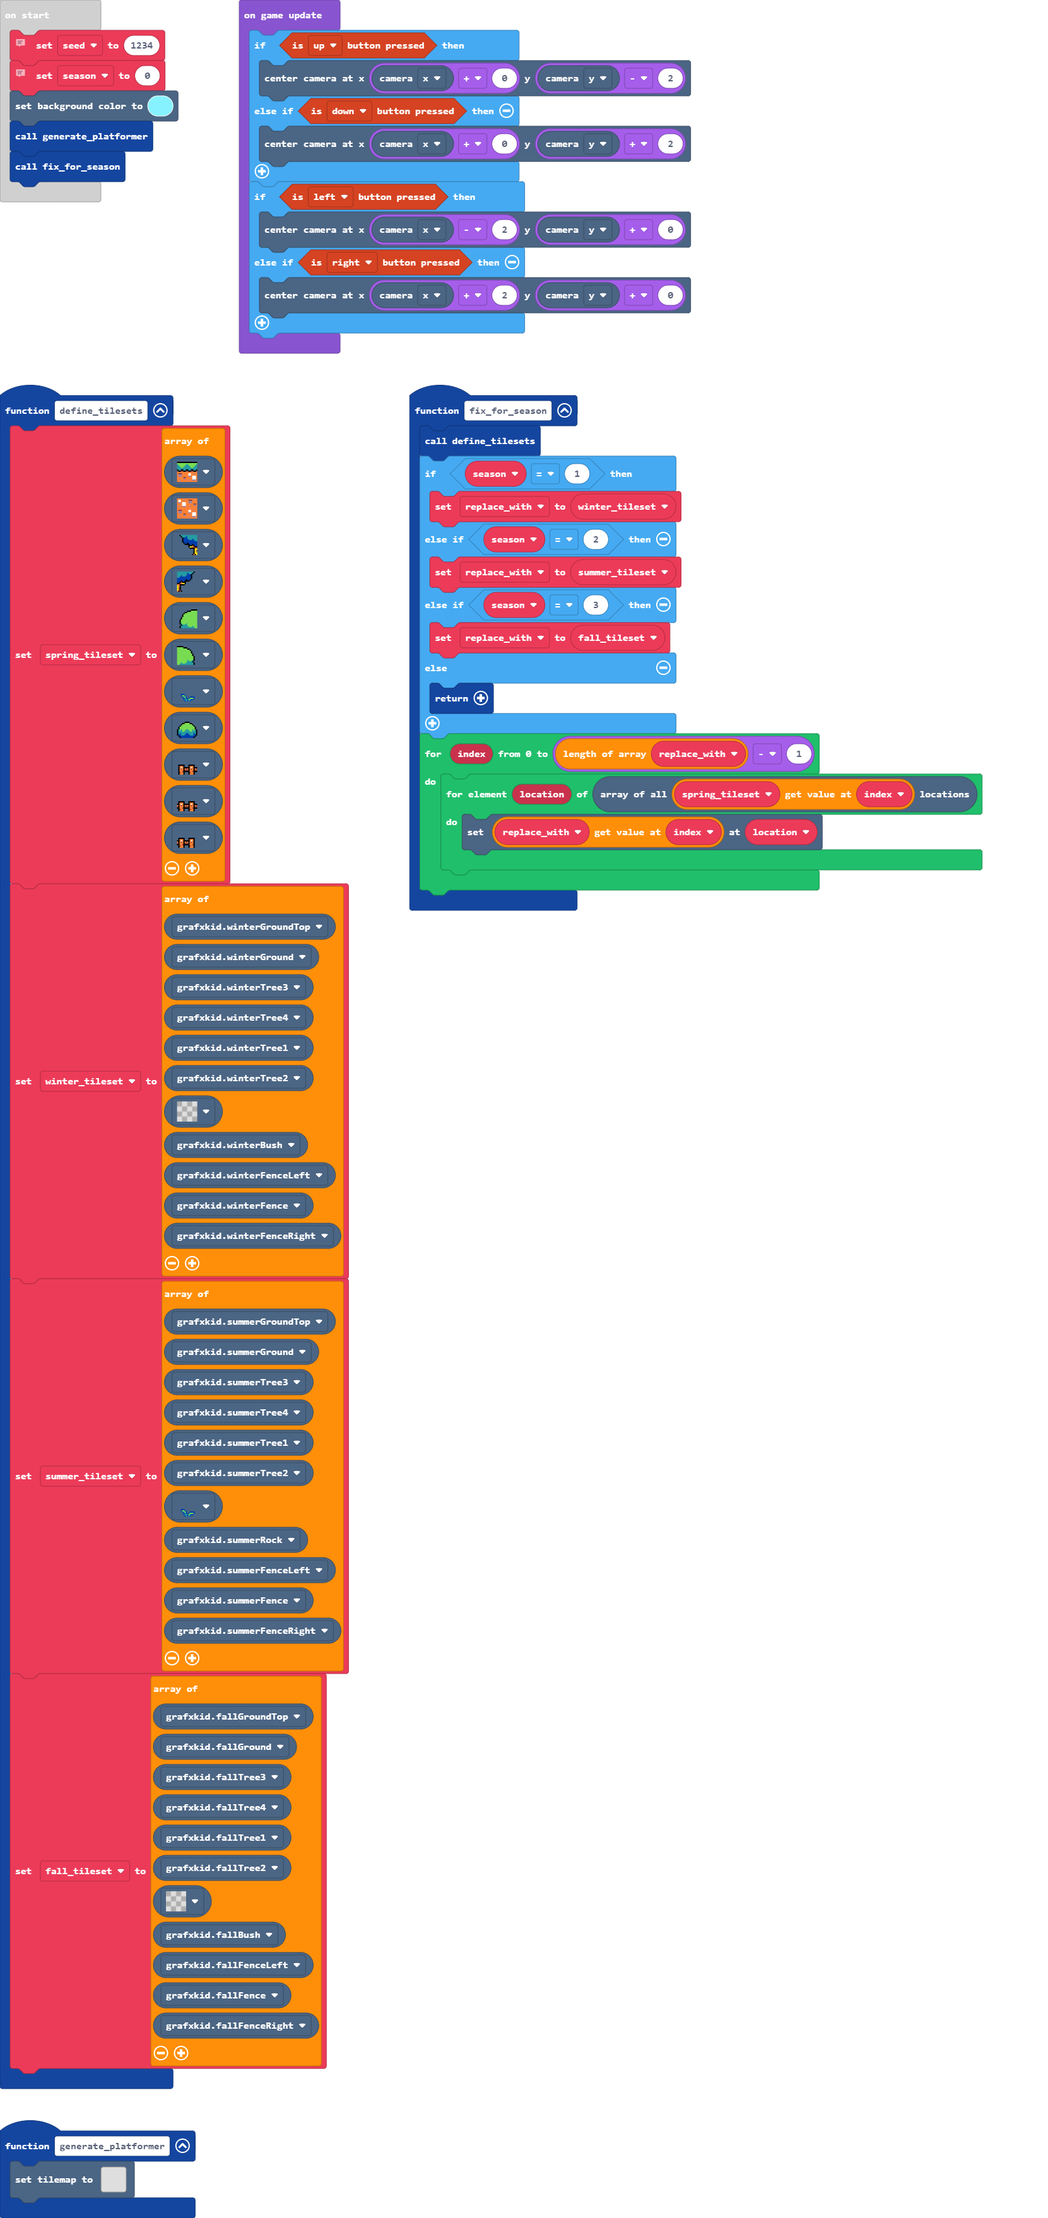
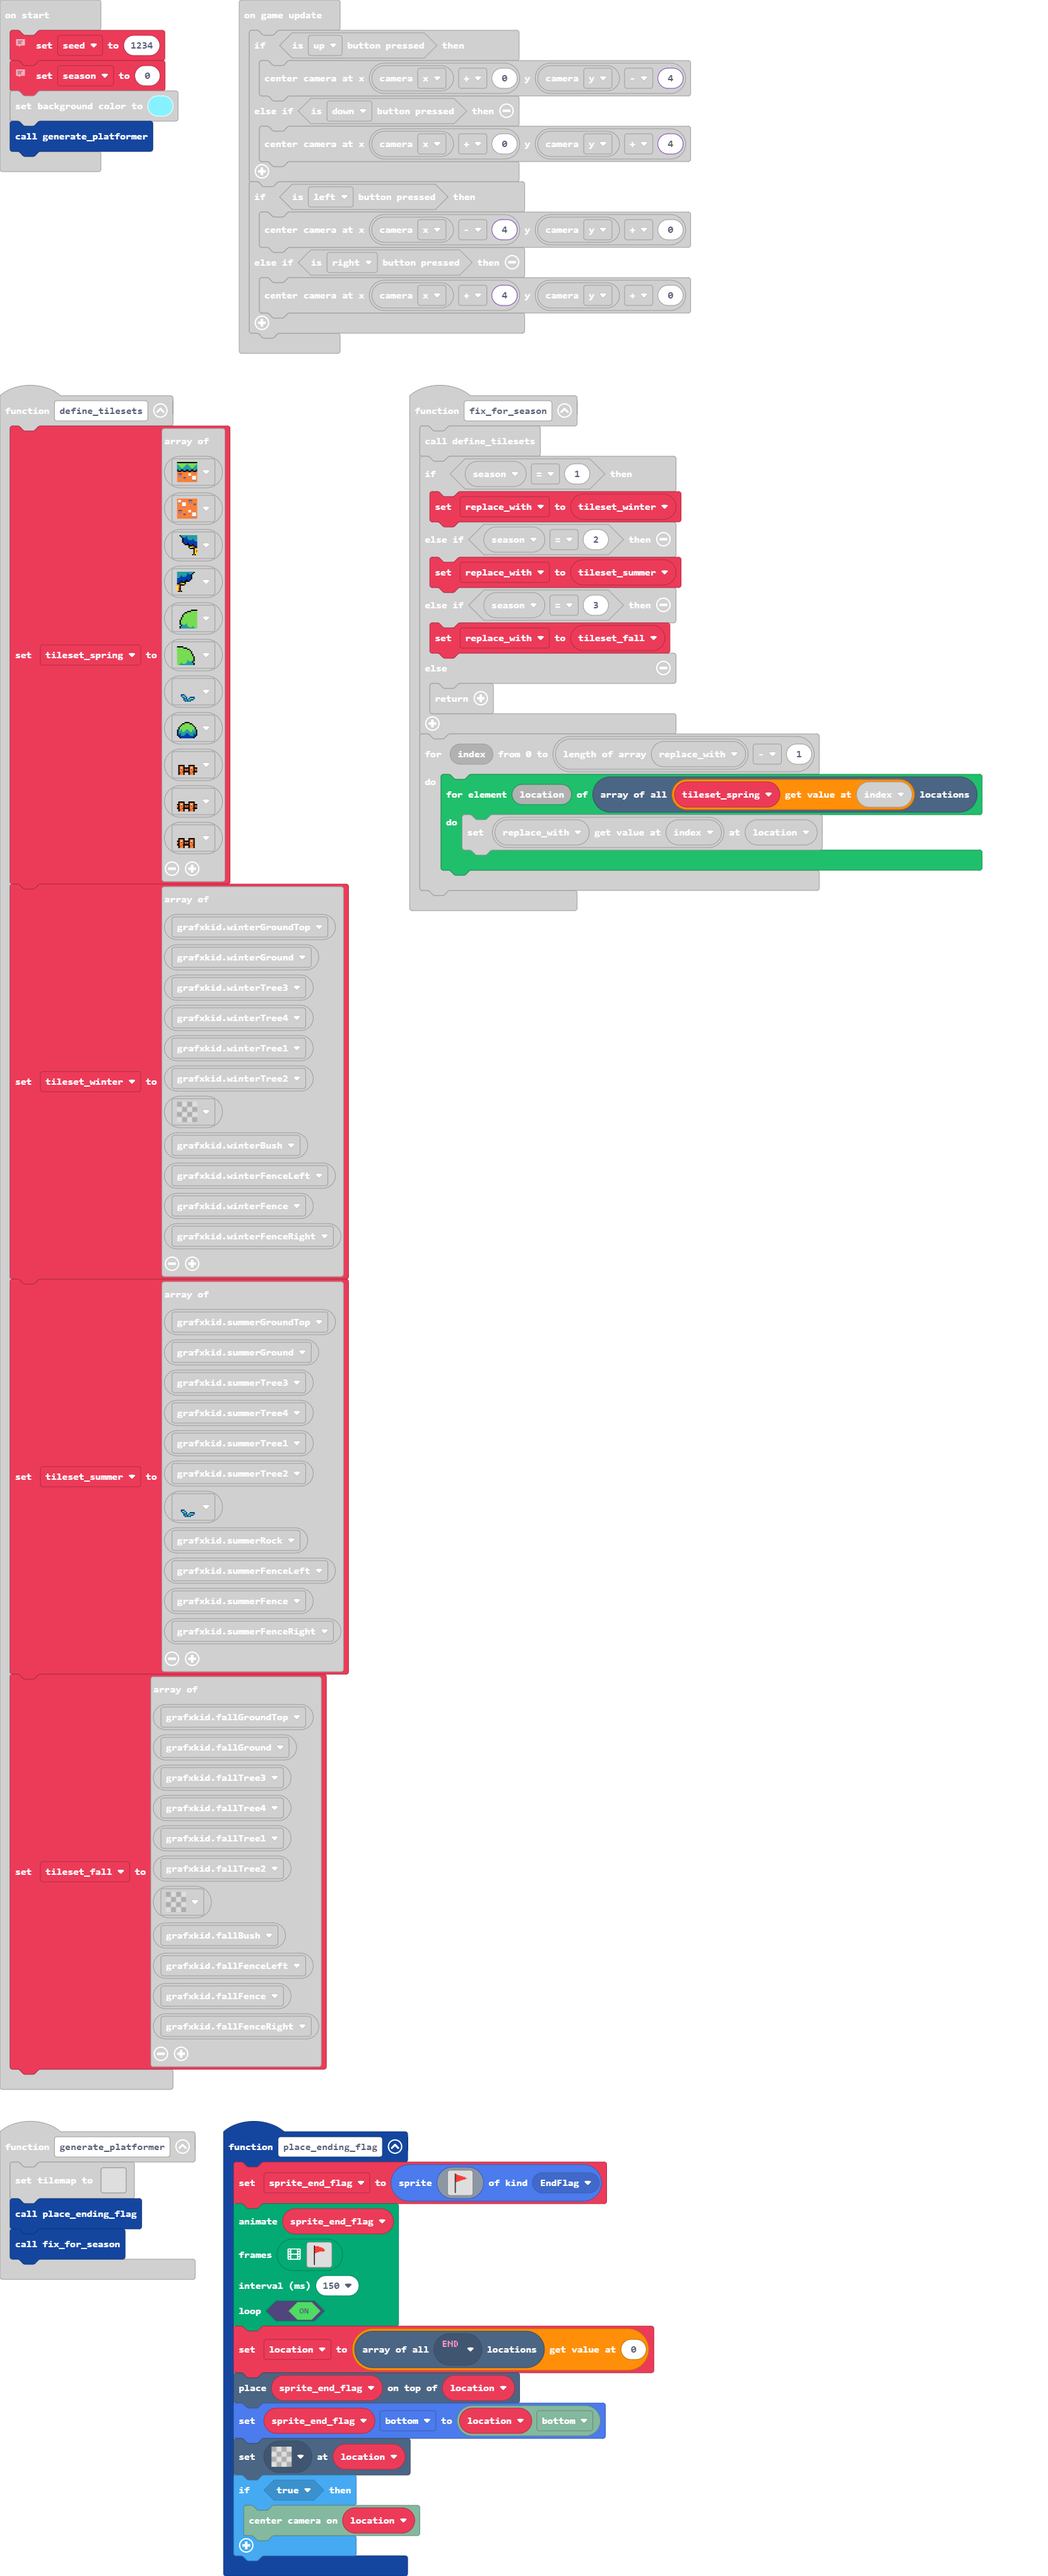
Can have different seasons and add flag

diff --git a/tilemap.g.ts b/tilemap.g.ts
@@ -2,11 +2,13 @@
 namespace myTiles {
     //% fixedInstance jres blockIdentity=images._tile
     export const transparency16 = image.ofBuffer(hex``);
+    //% fixedInstance jres blockIdentity=images._tile
+    export const tile1 = image.ofBuffer(hex``);
 
     helpers._registerFactory("tilemap", function(name: string) {
         switch(helpers.stringTrim(name)) {
             case "level_template":
[2 lines of base64/hex data omitted]
 ...............................................................................................................................................................................................................................................................
 ...............................................................................................................................................................................................................................................................
 ...............................................................................................................................................................................................................................................................
@@ -37,7 +39,7 @@ namespace myTiles {
 ...............................................................................................................................................................................................................................................................
 ...............................................................................................................................................................................................................................................................
 ...............................................................................................................................................................................................................................................................
-`, [myTiles.transparency16,grafxkid.springGroundTop,grafxkid.springGround,grafxkid.springTree3,grafxkid.springTree4,grafxkid.springTree1,grafxkid.springTree2,grafxkid.springGrass,grafxkid.springBush,grafxkid.fenceLeft,grafxkid.fenceRight,grafxkid.fence], TileScale.Sixteen);
+`, [myTiles.transparency16,grafxkid.springGroundTop,grafxkid.springGround,grafxkid.springTree3,grafxkid.springTree4,grafxkid.springTree1,grafxkid.springTree2,grafxkid.springGrass,grafxkid.springBush,grafxkid.fenceLeft,grafxkid.fenceRight,grafxkid.fence,myTiles.tile1], TileScale.Sixteen);
         }
         return null;
     })
@@ -45,6 +47,8 @@ namespace myTiles {
     helpers._registerFactory("tile", function(name: string) {
         switch(helpers.stringTrim(name)) {
             case "transparency16":return transparency16;
+            case "end":
+            case "tile1":return tile1;
         }
         return null;
     })

diff --git a/images.g.ts b/images.g.ts
@@ -1,0 +1,246 @@
+// Auto-generated code. Do not edit.
+namespace myImages {
+
+    helpers._registerFactory("image", function(name: string) {
+        switch(helpers.stringTrim(name)) {
+            case "Lpw5Pw@*~o4z]gZi_1":
+            case "end_flag":return img`
+................
+..f.............
+..f22...........
+..f22222........
+..f22222222.....
+..f22222222222..
+..f2222222222222
+..f22222222222..
+..f22222222.....
+..f22222........
+..f22...........
+..f.............
+..f.............
+..f.............
+..f.............
+..f.............
+..f.............
+..f.............
+..f.............
+..f.............
+..f.............
+..f.............
+..f.............
+..f.............
+`;
+        }
+        return null;
+    })
+
+    helpers._registerFactory("animation", function(name: string) {
+        switch(helpers.stringTrim(name)) {
+            case "end_flag_animation":
+            case "Ibb[AxA!h8ksm7$/GDgJ":return [img`
+................
+..f.............
+..f22222........
+..f22222222.....
+..f2222222222...
+..f22222222222..
+..f222222222222.
+..f22222222222..
+..f22222........
+..f22...........
+..f.............
+..f.............
+..f.............
+..f.............
+..f.............
+..f.............
+..f.............
+..f.............
+..f.............
+..f.............
+..f.............
+..f.............
+..f.............
+..f.............
+`, img`
+................
+..f.............
+..f22222........
+..f22222222.....
+..f2222222222...
+..f22222222222..
+..f222222222222.
+..f22222222222..
+..f22222........
+..f22...........
+..f.............
+..f.............
+..f.............
+..f.............
+..f.............
+..f.............
+..f.............
+..f.............
+..f.............
+..f.............
+..f.............
+..f.............
+..f.............
+..f.............
+`, img`
+................
+..f.............
+..f22222........
+..f22222222.....
+..f2222222222...
+..f22222222222..
+..f222222222222.
+..f22222222222..
+..f22222........
+..f22...........
+..f.............
+..f.............
+..f.............
+..f.............
+..f.............
+..f.............
+..f.............
+..f.............
+..f.............
+..f.............
+..f.............
+..f.............
+..f.............
+..f.............
+`, img`
+................
+..f.............
+..f22...........
+..f22222........
+..f22222222.....
+..f22222222222..
+..f2222222222222
+..f22222222222..
+..f22222222.....
+..f22222........
+..f22...........
+..f.............
+..f.............
+..f.............
+..f.............
+..f.............
+..f.............
+..f.............
+..f.............
+..f.............
+..f.............
+..f.............
+..f.............
+..f.............
+`, img`
+................
+..f.............
+..f22...........
+..f22222........
+..f22222222222..
+..f222222222222.
+..f22222222222..
+..f2222222222...
+..f22222222.....
+..f22222........
+..f.............
+..f.............
+..f.............
+..f.............
+..f.............
+..f.............
+..f.............
+..f.............
+..f.............
+..f.............
+..f.............
+..f.............
+..f.............
+..f.............
+`, img`
+................
+..f.............
+..f22...........
+..f22222........
+..f22222222222..
+..f222222222222.
+..f22222222222..
+..f2222222222...
+..f22222222.....
+..f22222........
+..f.............
+..f.............
+..f.............
+..f.............
+..f.............
+..f.............
+..f.............
+..f.............
+..f.............
+..f.............
+..f.............
+..f.............
+..f.............
+..f.............
+`, img`
+................
+..f.............
+..f22...........
+..f22222........
+..f22222222222..
+..f222222222222.
+..f22222222222..
+..f2222222222...
+..f22222222.....
+..f22222........
+..f.............
+..f.............
+..f.............
+..f.............
+..f.............
+..f.............
+..f.............
+..f.............
+..f.............
+..f.............
+..f.............
+..f.............
+..f.............
+..f.............
+`, img`
+................
+..f.............
+..f22...........
+..f22222........
+..f22222222.....
+..f22222222222..
+..f2222222222222
+..f22222222222..
+..f22222222.....
+..f22222........
+..f22...........
+..f.............
+..f.............
+..f.............
+..f.............
+..f.............
+..f.............
+..f.............
+..f.............
+..f.............
+..f.............
+..f.............
+..f.............
+..f.............
+`];
+        }
+        return null;
+    })
+
+}
+// Auto-generated code. Do not edit.

diff --git a/main.ts b/main.ts
@@ -1,25 +1,46 @@
+namespace SpriteKind {
+    export const EndFlag = SpriteKind.create()
+}
 function fix_for_season () {
     define_tilesets()
     if (season == 1) {
-        replace_with = winter_tileset
+        replace_with = tileset_winter
     } else if (season == 2) {
-        replace_with = summer_tileset
+        replace_with = tileset_summer
     } else if (season == 3) {
-        replace_with = fall_tileset
+        replace_with = tileset_fall
     } else {
         return
     }
     for (let index = 0; index <= replace_with.length - 1; index++) {
-        for (let location of tiles.getTilesByType(spring_tileset[index])) {
+        for (let location of tiles.getTilesByType(tileset_spring[index])) {
             tiles.setTileAt(location, replace_with[index])
         }
     }
 }
 function generate_platformer () {
     tiles.setTilemap(tilemap`level_template`)
+    place_ending_flag()
+    fix_for_season()
+}
+function place_ending_flag () {
+    sprite_end_flag = sprites.create(assets.image`end_flag`, SpriteKind.EndFlag)
+    animation.runImageAnimation(
+    sprite_end_flag,
+    assets.animation`end_flag_animation`,
+    150,
+    true
+    )
+    location = tiles.getTilesByType(assets.tile`end`)[0]
+    tiles.placeOnTile(sprite_end_flag, location)
+    sprite_end_flag.bottom = tiles.locationXY(location, tiles.XY.bottom)
+    tiles.setTileAt(location, assets.tile`transparency16`)
+    if (true) {
+        tiles.centerCameraOnTile(location)
+    }
 }
 function define_tilesets () {
-    spring_tileset = [
+    tileset_spring = [
     grafxkid.springGroundTop,
     grafxkid.springGround,
     grafxkid.springTree3,
@@ -32,7 +53,7 @@ function define_tilesets () {
     grafxkid.fence,
     grafxkid.fenceRight
     ]
-    winter_tileset = [
+    tileset_winter = [
     grafxkid.winterGroundTop,
     grafxkid.winterGround,
     grafxkid.winterTree3,
@@ -45,7 +66,7 @@ function define_tilesets () {
     grafxkid.winterFence,
     grafxkid.winterFenceRight
     ]
-    summer_tileset = [
+    tileset_summer = [
     grafxkid.summerGroundTop,
     grafxkid.summerGround,
     grafxkid.summerTree3,
@@ -58,7 +79,7 @@ function define_tilesets () {
     grafxkid.summerFence,
     grafxkid.summerFenceRight
     ]
-    fall_tileset = [
+    tileset_fall = [
     grafxkid.fallGroundTop,
     grafxkid.fallGround,
     grafxkid.fallTree3,
@@ -72,10 +93,12 @@ function define_tilesets () {
     grafxkid.fallFenceRight
     ]
 }
-let spring_tileset: Image[] = []
-let fall_tileset: Image[] = []
-let summer_tileset: Image[] = []
-let winter_tileset: Image[] = []
+let location: tiles.Location = null
+let sprite_end_flag: Sprite = null
+let tileset_spring: Image[] = []
+let tileset_fall: Image[] = []
+let tileset_summer: Image[] = []
+let tileset_winter: Image[] = []
 let replace_with: Image[] = []
 let season = 0
 // Must be between 0 and 65535
@@ -87,16 +110,15 @@ let seed = 1234
 season = 0
 scene.setBackgroundColor(9)
 generate_platformer()
-fix_for_season()
 game.onUpdate(function () {
     if (controller.up.isPressed()) {
-        scene.centerCameraAt(scene.cameraProperty(CameraProperty.X) + 0, scene.cameraProperty(CameraProperty.Y) - 2)
+        scene.centerCameraAt(scene.cameraProperty(CameraProperty.X) + 0, scene.cameraProperty(CameraProperty.Y) - 4)
     } else if (controller.down.isPressed()) {
-        scene.centerCameraAt(scene.cameraProperty(CameraProperty.X) + 0, scene.cameraProperty(CameraProperty.Y) + 2)
+        scene.centerCameraAt(scene.cameraProperty(CameraProperty.X) + 0, scene.cameraProperty(CameraProperty.Y) + 4)
     }
     if (controller.left.isPressed()) {
-        scene.centerCameraAt(scene.cameraProperty(CameraProperty.X) - 2, scene.cameraProperty(CameraProperty.Y) + 0)
+        scene.centerCameraAt(scene.cameraProperty(CameraProperty.X) - 4, scene.cameraProperty(CameraProperty.Y) + 0)
     } else if (controller.right.isPressed()) {
-        scene.centerCameraAt(scene.cameraProperty(CameraProperty.X) + 2, scene.cameraProperty(CameraProperty.Y) + 0)
+        scene.centerCameraAt(scene.cameraProperty(CameraProperty.X) + 4, scene.cameraProperty(CameraProperty.Y) + 0)
     }
 })
